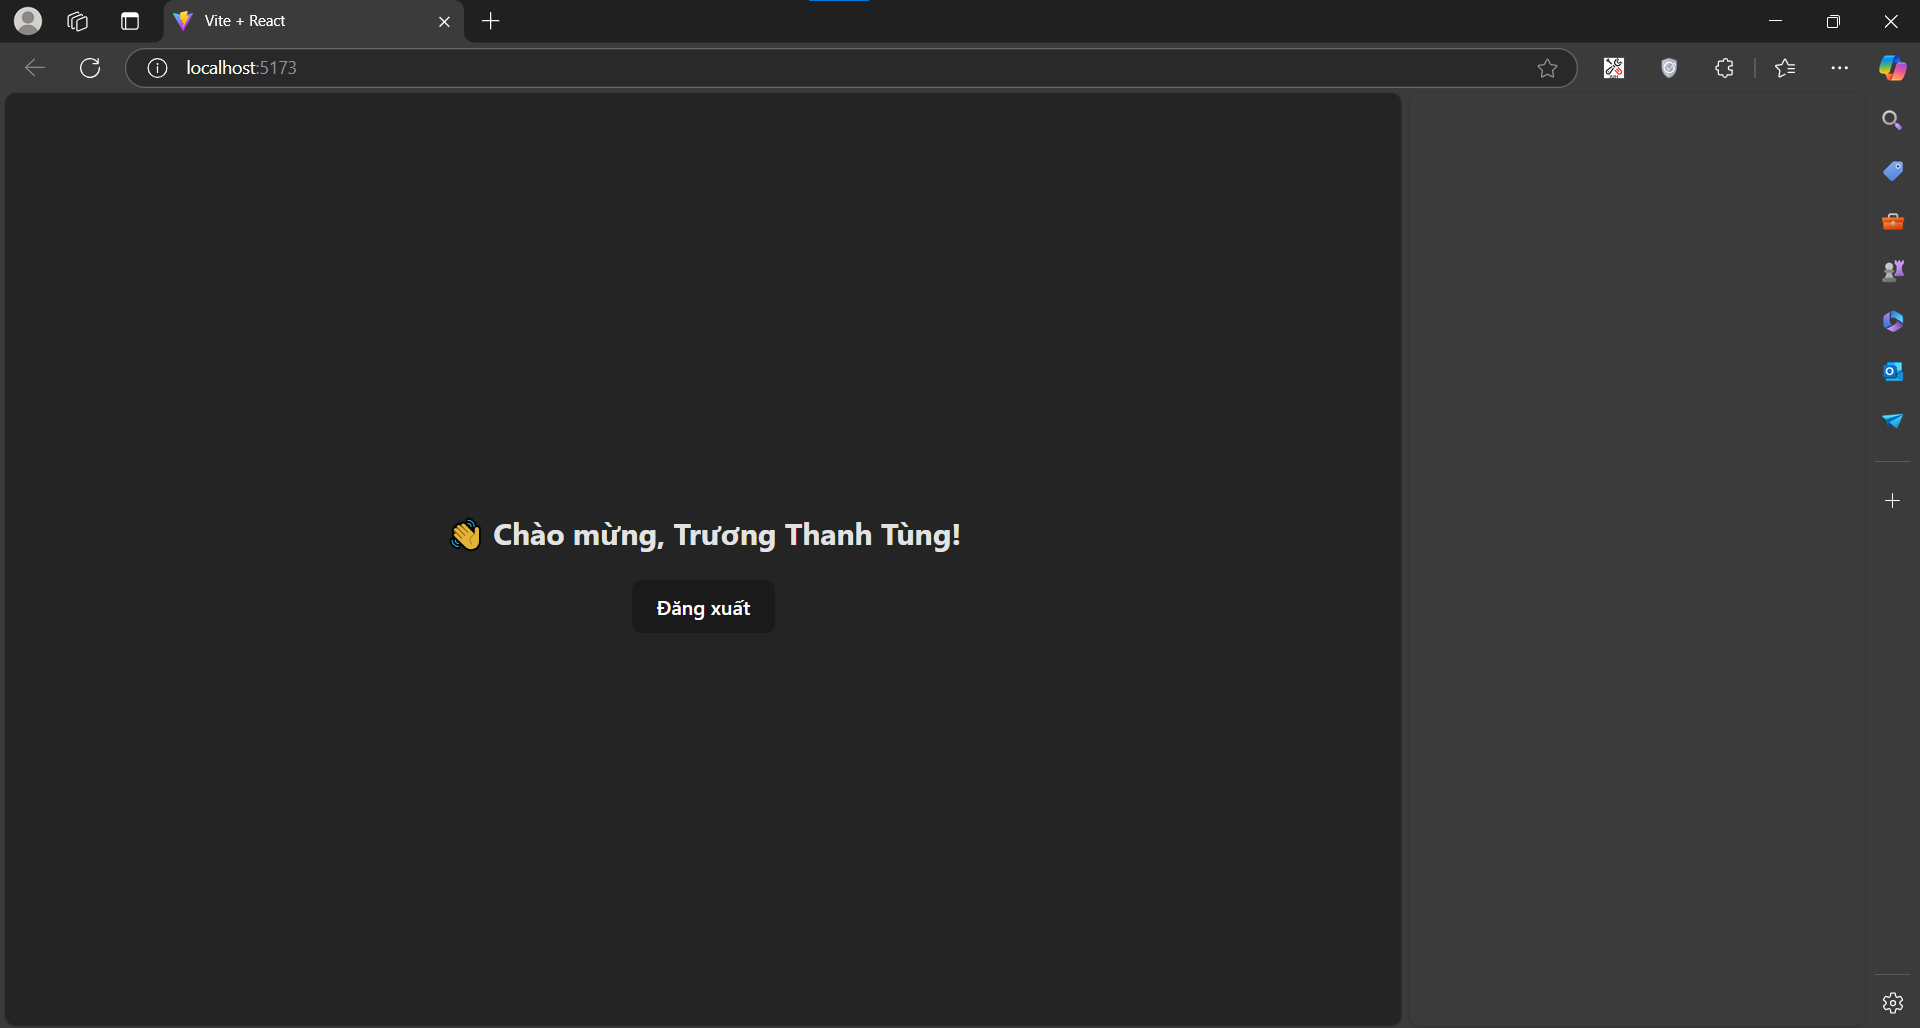
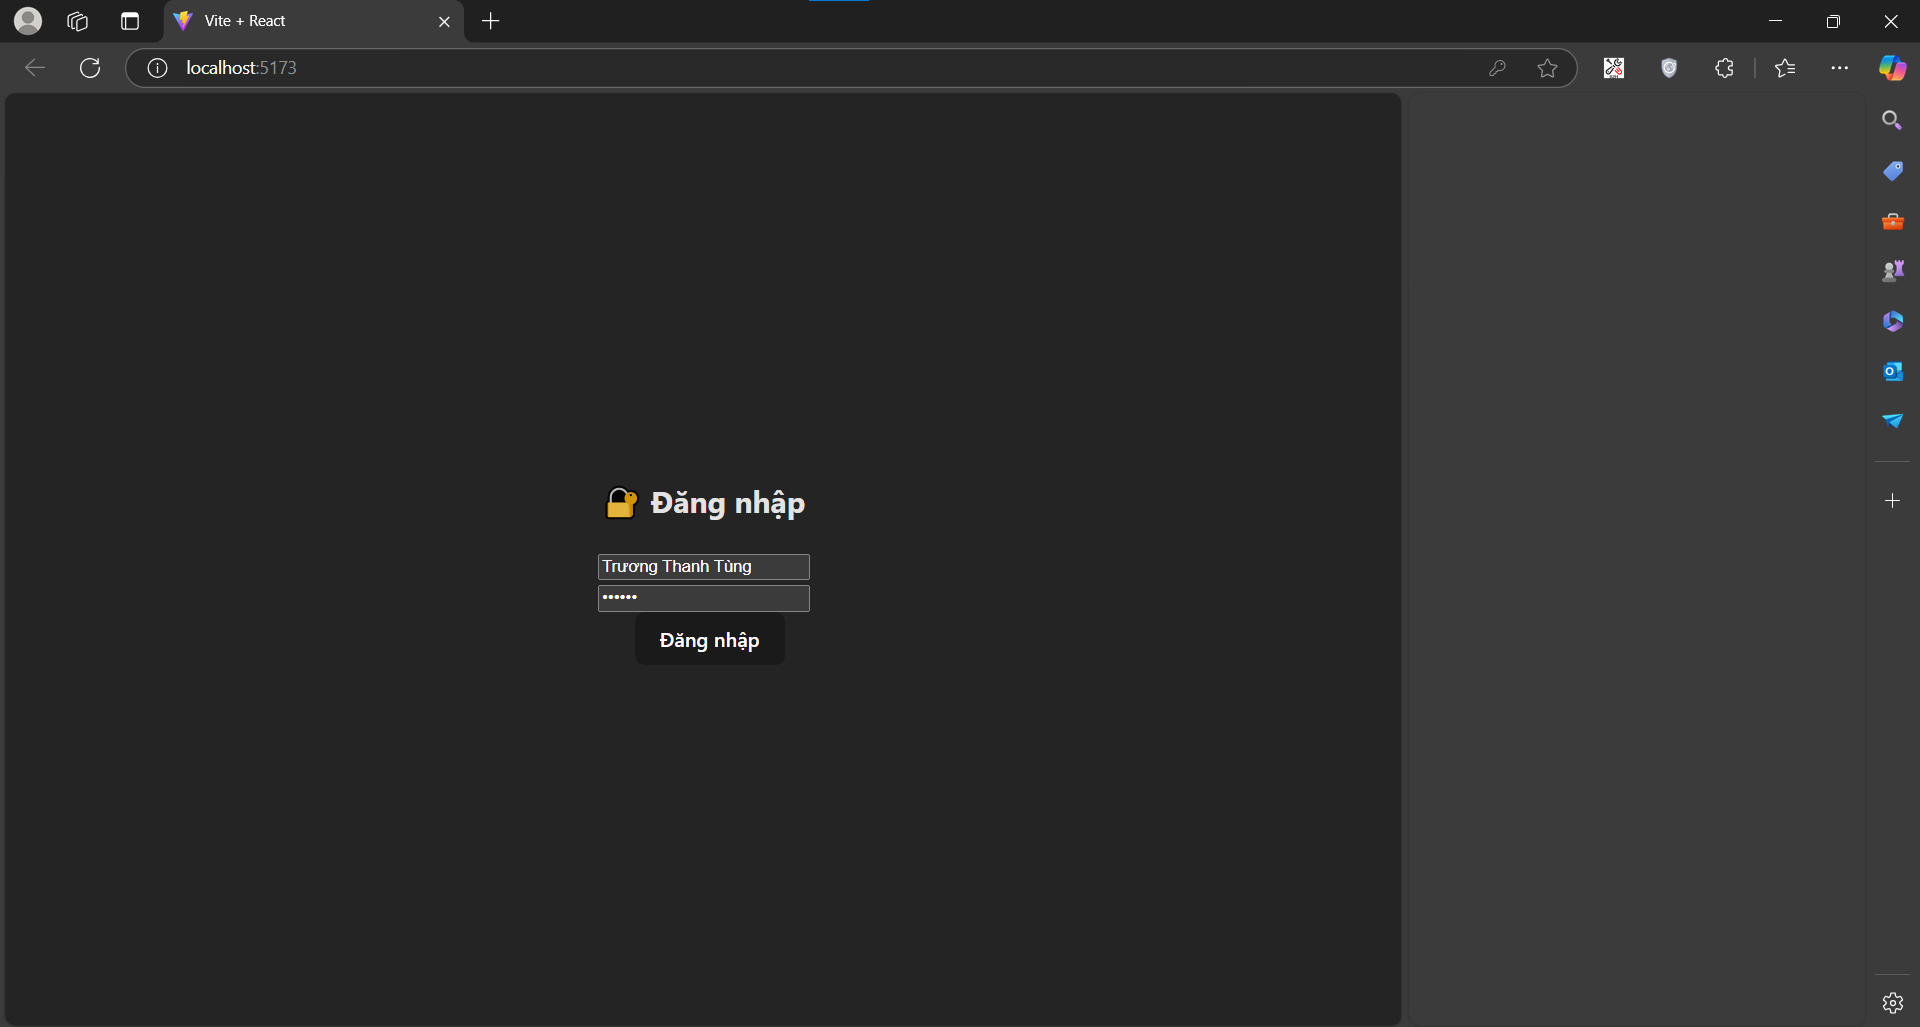
Update  5. Quản lý user đăng nhập (Auth) 1

Changed region(s): [[0.2188, 0.4674, 0.5, 0.6543], [0.9688, 0.9659, 1.0, 0.9971]]

diff --git a/src/components/Auth.jsx b/src/components/Auth.jsx
@@ -36,7 +36,12 @@ export default function Auth() {
             value={username}
             onChange={(e) => setUsername(e.target.value)}
             required
-          />
+          /> <br />
+          <input
+            type="password"
+            placeholder="Mật khẩu"
+            required
+          /> <br />
           <button type="submit" style={{ marginLeft: 10 }}>
             Đăng nhập
           </button>
